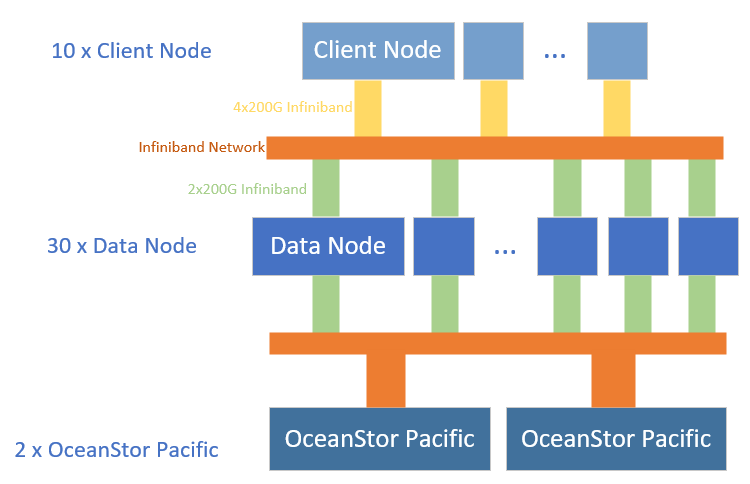
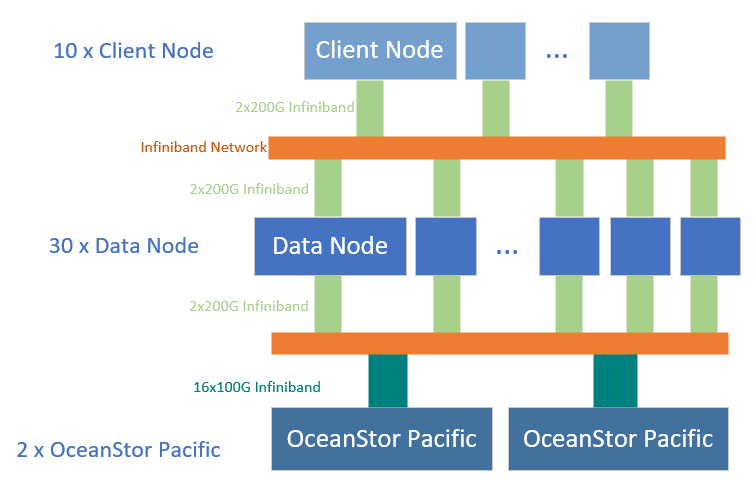
add doc

diff --git a/README.md b/README.md
@@ -17,8 +17,7 @@ Client node, data node test environment parameters:
 | kernel version         | Linux3.10                      |
 | number of client nodes | 10                             |
 | number of data nodes   | 30                             |
-| client network         | 4x200G Infiniband              |
-| data server network    | 2x200G Infiniband              |
+| network                | 2x200G Infiniband              |
 
 [OceanStor Pacific](https://e.huawei.com/cn/products/storage/distributed-storage/oceanstor-pacific-series/oceanstor-pacific-9950)：
 | parameters              | configuration |
@@ -44,8 +43,7 @@ Client node, data node test environment parameters:
 | 内核版本       | Linux3.10                      |
 | 客户端数量     | 10                             |
 | 数据服务器数量 | 30                             |
-| 客户端网络     | 4x200G Infiniband              |
-| 数据服务器网络 | 2x200G Infiniband              |
+| 网络           | 2x200G Infiniband              |
 
 [OceanStor Pacific](https://e.huawei.com/cn/products/storage/distributed-storage/oceanstor-pacific-series/oceanstor-pacific-9950)参数：
 
